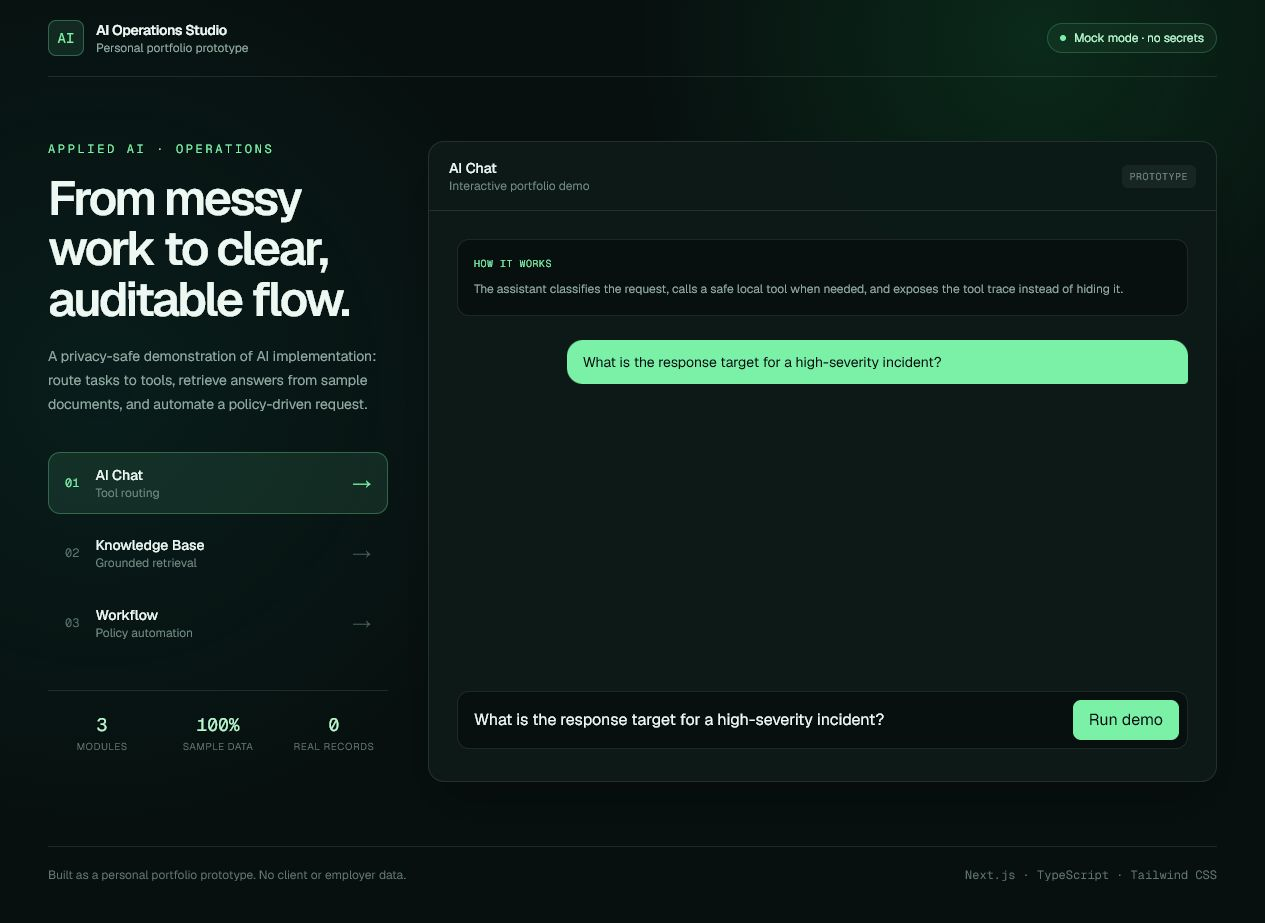
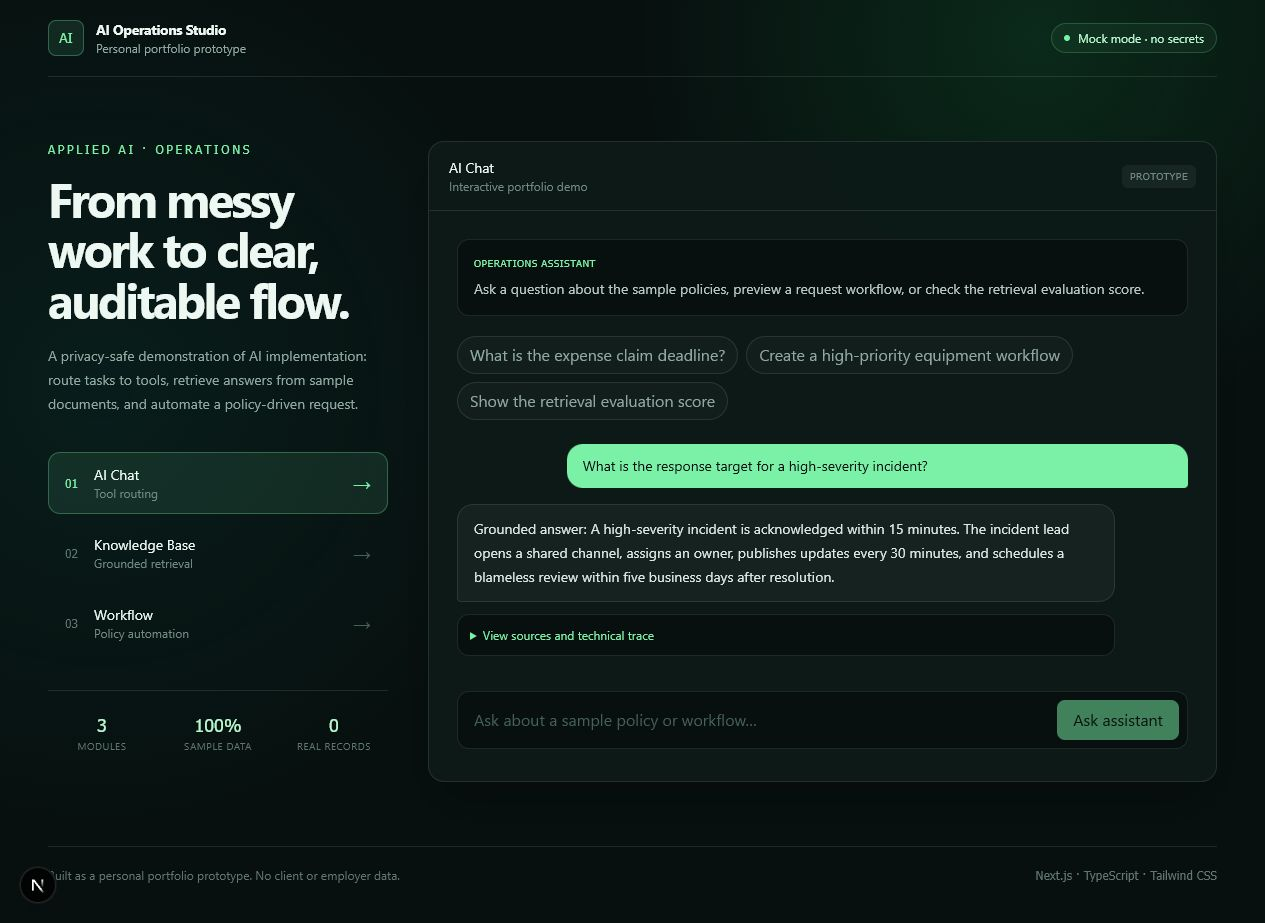
Refine chat demo experience

diff --git a/src/components/studio.tsx b/src/components/studio.tsx
@@ -58,16 +58,21 @@ export function Studio() {
 
 function ChatDemo() {
   const [message, setMessage] = useState("What is the response target for a high-severity incident?");
+  const [submittedMessage, setSubmittedMessage] = useState("");
   const [result, setResult] = useState<{ answer: string; toolCalls: { name: string; resultCount: number; summary: string }[]; mode: string } | null>(null);
   const [loading, setLoading] = useState(false);
-  async function submit(event: FormEvent) { event.preventDefault(); setLoading(true); const response = await fetch("/api/chat", { method: "POST", headers: { "Content-Type": "application/json" }, body: JSON.stringify({ message }) }); setResult(await response.json()); setLoading(false); }
+  const suggestions = ["What is the expense claim deadline?", "Create a high-priority equipment workflow", "Show the retrieval evaluation score"];
+  async function submit(event: FormEvent) { event.preventDefault(); const prompt = message.trim(); if (!prompt) return; setSubmittedMessage(prompt); setMessage(""); setLoading(true); setResult(null); const response = await fetch("/api/chat", { method: "POST", headers: { "Content-Type": "application/json" }, body: JSON.stringify({ message: prompt }) }); setResult(await response.json()); setLoading(false); }
   return <div className="flex min-h-[510px] flex-col">
-    <div className="mb-6 rounded-xl border border-white/10 bg-[#07100f] p-4"><p className="mb-2 font-mono text-[10px] uppercase tracking-wider text-green-300">How it works</p><p className="text-xs leading-5 text-[#90a9a0]">The assistant classifies the request, calls a safe local tool when needed, and exposes the tool trace instead of hiding it.</p></div>
-    <div className="flex-1 space-y-4">
-      <div className="ml-auto max-w-[85%] rounded-2xl rounded-br-sm bg-green-300 px-4 py-3 text-sm text-[#07100f]">{message}</div>
-      {result && <div className="max-w-[90%] space-y-3"><div className="rounded-2xl rounded-bl-sm border border-white/10 bg-white/[.04] px-4 py-3 text-sm leading-6 text-[#d9e8e2]">{result.answer}</div>{result.toolCalls.map((tool, index) => <div key={`${tool.name}-${index}`} className="rounded-lg border border-green-300/20 bg-green-300/5 p-3 font-mono text-xs"><div className="flex justify-between gap-3 text-green-300"><span>↳ tool: {tool.name}</span><span>{tool.resultCount} result</span></div><p className="mt-1 text-[#718a81]">{tool.summary}</p></div>)}<p className="font-mono text-[10px] uppercase tracking-wider text-[#60776f]">Mode: {result.mode}</p></div>}
+    <div className="mb-5 rounded-xl border border-white/10 bg-[#07100f] p-4"><p className="mb-2 font-mono text-[10px] uppercase tracking-wider text-green-300">Operations assistant</p><p className="text-sm leading-5 text-[#b7cbc3]">Ask a question about the sample policies, preview a request workflow, or check the retrieval evaluation score.</p></div>
+    <div className="mb-6 flex flex-wrap gap-2">{suggestions.map((suggestion) => <button key={suggestion} type="button" onClick={() => setMessage(suggestion)} className="rounded-full border border-white/10 bg-white/[.025] px-3 py-1.5 text-left text-xs text-[#90a9a0] transition hover:border-green-300/30 hover:text-green-200">{suggestion}</button>)}</div>
+    <div className="flex-1 space-y-4" aria-live="polite">
+      {!submittedMessage && <div className="rounded-xl border border-dashed border-white/10 px-5 py-10 text-center"><p className="text-sm text-[#90a9a0]">Choose an example above or enter your own question.</p><p className="mt-2 text-xs text-[#60776f]">All documents and requests in this demo are fictional.</p></div>}
+      {submittedMessage && <div className="ml-auto max-w-[85%] rounded-2xl rounded-br-sm bg-green-300 px-4 py-3 text-sm text-[#07100f]">{submittedMessage}</div>}
+      {loading && <div className="max-w-[90%] rounded-2xl rounded-bl-sm border border-white/10 bg-white/[.04] px-4 py-3 text-sm text-[#90a9a0]">Reviewing the request…</div>}
+      {result && <div className="max-w-[90%] space-y-3"><div className="rounded-2xl rounded-bl-sm border border-white/10 bg-white/[.04] px-4 py-3 text-sm leading-6 text-[#d9e8e2]">{result.answer}</div>{result.toolCalls.length > 0 && <details className="rounded-xl border border-white/10 bg-[#07100f] p-3"><summary className="cursor-pointer text-xs font-medium text-green-300">View sources and technical trace</summary><div className="mt-3 space-y-2 border-t border-white/10 pt-3">{result.toolCalls.map((tool, index) => <div key={`${tool.name}-${index}`} className="font-mono text-xs"><div className="flex flex-wrap justify-between gap-2 text-[#b7cbc3]"><span>{tool.name}</span><span>{tool.resultCount} {tool.resultCount === 1 ? "item" : "items"} reviewed</span></div><p className="mt-1 text-[#718a81]">{tool.summary}</p></div>)}<p className="font-mono text-[10px] uppercase tracking-wider text-[#60776f]">Execution mode: {result.mode}</p></div></details>}</div>}
     </div>
-    <form onSubmit={submit} className="mt-6 flex gap-2 rounded-xl border border-white/10 bg-[#07100f] p-2"><input aria-label="Chat message" value={message} onChange={(e) => setMessage(e.target.value)} className="min-w-0 flex-1 bg-transparent px-2 text-sm outline-none placeholder:text-[#456057]" /><button disabled={loading || !message.trim()} className="rounded-lg bg-green-300 px-4 py-2 text-sm font-medium text-[#07100f] disabled:opacity-50">{loading ? "Running…" : "Run demo"}</button></form>
+    <form onSubmit={submit} className="mt-6 flex gap-2 rounded-xl border border-white/10 bg-[#07100f] p-2"><input aria-label="Chat message" value={message} onChange={(e) => setMessage(e.target.value)} placeholder="Ask about a sample policy or workflow…" className="min-w-0 flex-1 bg-transparent px-2 text-sm outline-none placeholder:text-[#456057]" /><button disabled={loading || !message.trim()} className="rounded-lg bg-green-300 px-4 py-2 text-sm font-medium text-[#07100f] disabled:opacity-50">{loading ? "Running…" : "Ask assistant"}</button></form>
   </div>;
 }
 